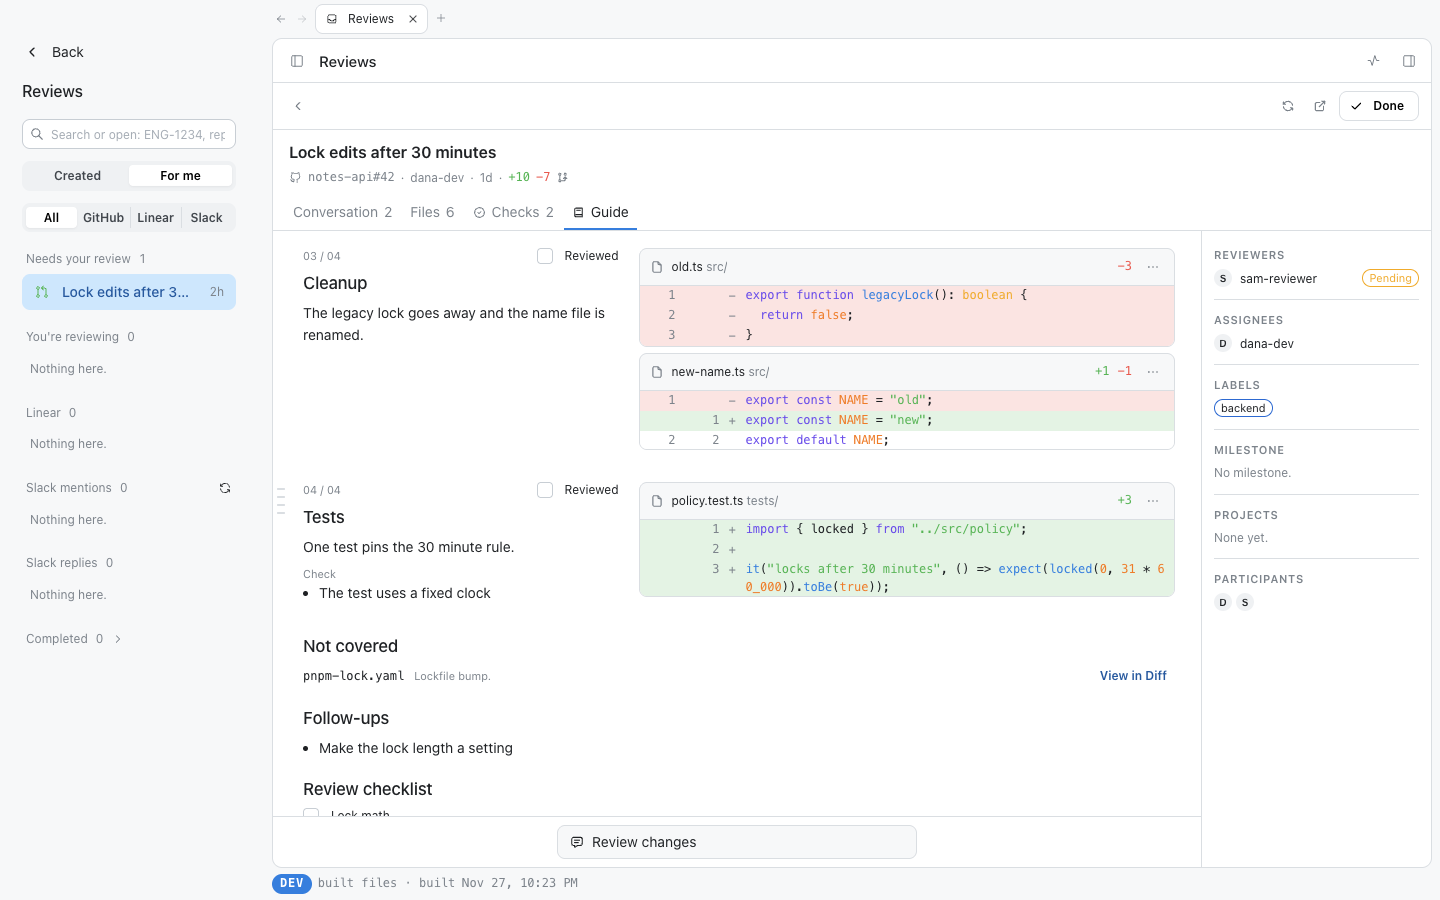
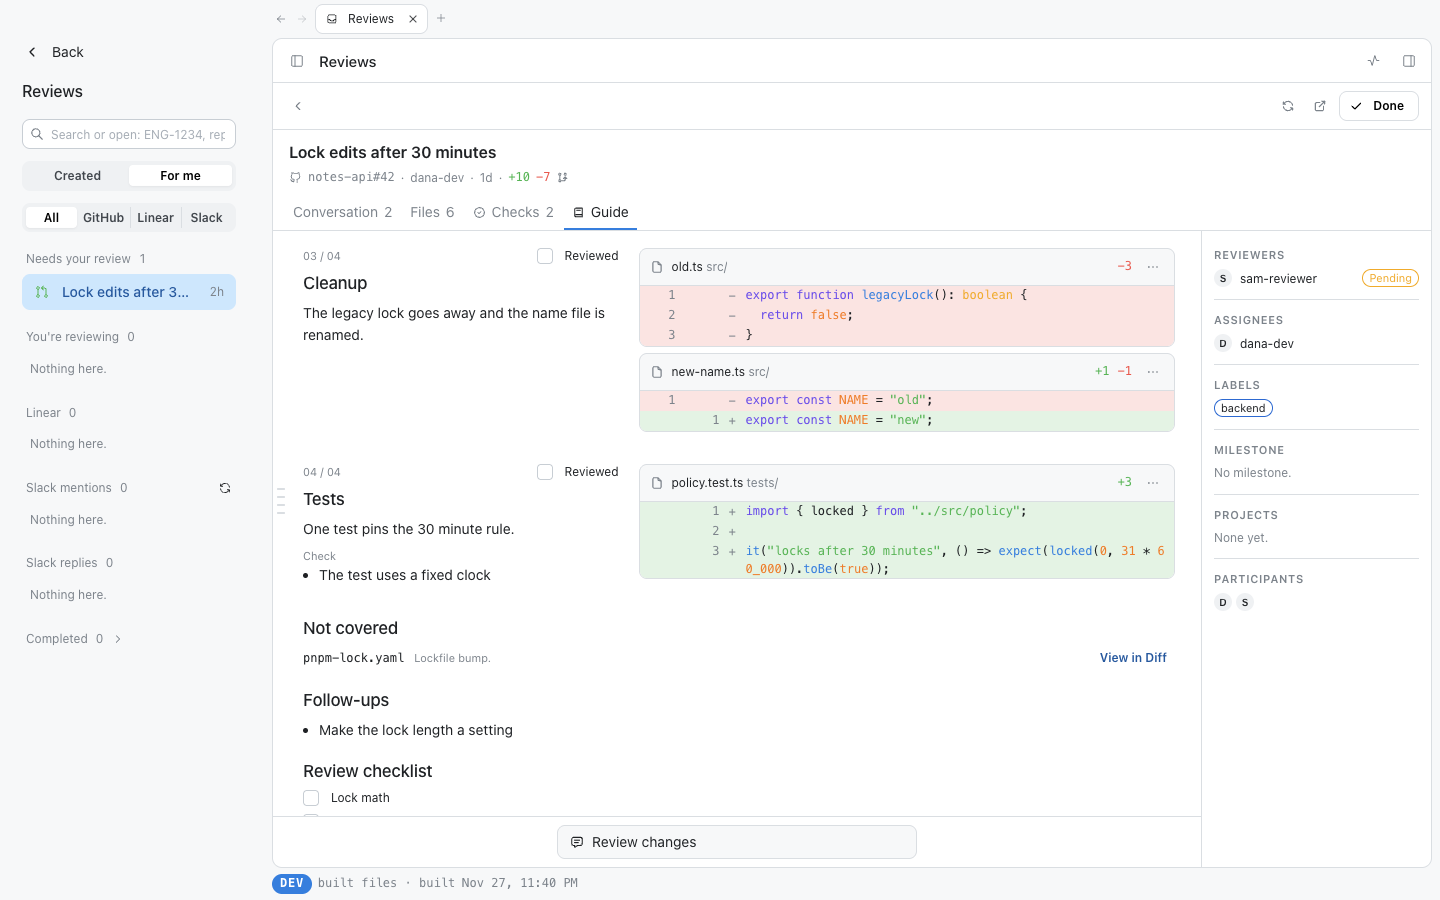
test(e2e): re-take the Guide v2 after shots on the fixed head
- Same fixtures and seed; after shots from fa23dd9d.

diff --git a/proof/guide-v2/NOTES.md b/proof/guide-v2/NOTES.md
@@ -1,7 +1,7 @@
 # Guide v2 and image widths: before/after proof
 
 - Baseline: `61a5b2e6` (origin/main, app code untouched; only the spec, `e2e/helpers/fake-relay-host.ts` and `e2e/fixtures/reviews/` were copied in for the run, then removed)
-- Head: `53967773a82bcc17f8867f50fa4da2a4a54e2880` (branch `eva/guide-v2`) plus the uncommitted proof harness
+- Head: after shots re-taken at `fa23dd9d` (branch `eva/guide-v2`, after the review fixes); before shots unchanged
 - Spec: `apps/desktop/e2e/reviews-guide-proof.spec.ts`, the same file in both phases (`PROOF_PHASE=before|after`; Guide v2 and width assertions run only in `after`)
 - Mode: Relay Desktop in remote mode (paired `relay-remote.json`) against `FakeRelayHost`, which answers every `reviews.req` op from `apps/desktop/e2e/fixtures/reviews/answers.json` and serves the fixture PNGs at `/reviews/media/<file>/e2e-token`. No GitHub, Linear, Slack or Claude.
 - Clock: `EVAOS_NOW=2026-11-27T18:00:00Z`, renderer clock fixed to the same instant (Playwright `clock.setFixedTime`)
